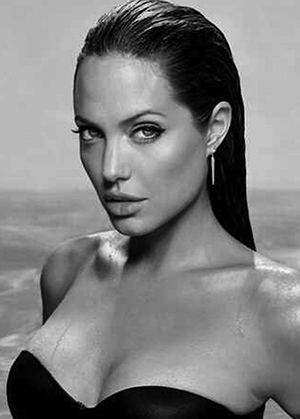
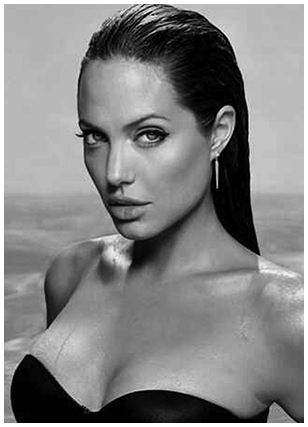
front changes

diff --git a/verstation2.js b/verstation2.js
@@ -1,0 +1,150 @@
+var datamass= null,
+customDataMass = null;
+var globalCurrentDirection = 'left',
+    globaCurrentPoint,
+    nextPoint = {},
+    resultStack = new Array(),
+    firstPoint = {},
+    resultFromPhoto1 = [];
+    globalWidth = null,
+    globalHeight = null;
+$(document).ready(function(){
+    //get beauty
+    $('.nav-btn.do-beauty').on('click', function(){
+        $('.get-beauty._flower').toggle();
+        $('.get-beauty._fly').toggleClass('_show');
+    });
+
+    // создаем или находим изображение
+    var img = $('.markup'),
+    globalWidth = $('.markup').width(),
+    globalHeight = $('.markup').height();
+    var markup = document.getElementById("markup");
+
+
+    $('.welcome__t').on("click", function(){
+        $('.pss-block').removeClass("hidden")
+    });
+
+
+
+    /*$('.button-generate input[type="file"]').change(function(event) {*/
+
+    $('.button-load input[type="file"]').change(function(event) {
+        // создаем или находим canvas
+        var canvas = document.getElementById('canvas');
+        // получаем его 2D контекст
+        var context = canvas.getContext('2d');
+        var img = new Image;
+        img.src = URL.createObjectURL(event.target.files[0]);
+        img.onload = function() {
+            canvas.onload = function() {
+                console.log('ok')
+            }
+            document.body.appendChild(canvas);
+            // помещаем изображение в контекст
+            context.drawImage(img, 0, 0);
+            // получаем объект, описывающий внутреннее состояние области контекста
+            var imageData = context.getImageData(0, 0, globalWidth, globalHeight);
+            var pixels = imageData.data;
+            datamass = pixels;
+            analizePixels(pixels);
+            /*      // фильтруем
+             imageDataFiltered = sepia(imageData);
+             // кладем результат фильтрации обратно в canvas
+             context.putImageData(imageDataFiltered, 0, 0);*/
+        }
+    });
+
+    $('.button-generate').on('click', function() {
+          // создаем или находим canvas
+          var canvas = document.getElementById('canvas');
+          // получаем его 2D контекст
+          var context = canvas.getContext('2d');
+          // помещаем изображение в контекст
+          context.drawImage(markup, 0, 0);
+          // получаем объект, описывающий внутреннее состояние области контекста
+          var imageData = context.getImageData(0, 0, globalWidth, globalHeight);
+          var pixels = imageData.data;
+          datamass = pixels;
+          analizePixels(pixels);
+        /*  // фильтруем
+          imageDataFiltered = sepia(imageData);
+          // кладем результат фильтрации обратно в canvas
+          context.putImageData(imageDataFiltered, 0, 0);*/
+     });
+});
+
+var analizePixels = function(canvasPixels){
+    var i = 0,
+    j = 0,
+    indexRow = 0,
+    indexCol = 0,
+    originalWidth = 0,
+    customWidth = 0,
+    width = $('.markup').width(),
+    height = $('.markup').height();
+    /*width = 0, height = 0;*/
+    globalHeight = height;
+    globalWidth = width;
+    pixMas = new Array(height);
+
+        for (var k = 0; k < pixMas.length; k++){ // create array
+            pixMas[k] = new Array (width);
+        }
+
+        originalWidth = width*4;
+
+        for (i=3; i < width*height*4; i+=4){
+
+            indexRow = parseInt(i/originalWidth);
+            indexCol = parseInt((i%originalWidth)/4);
+            /*if (canvasPixels[i]<200){
+                pixMas[indexRow][indexCol] = 0;
+            } else {*/
+                var colorSumm = changeToHSL(canvasPixels[i-3], canvasPixels[i-2], canvasPixels[i-1]);
+                if (colorSumm < 300 && canvasPixels[i]!=0){
+                    pixMas[indexRow][indexCol] = 1
+                    /*console.log(colorSumm);
+                    console.log("index = " + indexRow+ " "+ indexCol )
+                    console.log("params = " + canvasPixels[i-3] +" "+ canvasPixels[i-2]+" "+canvasPixels[i-1]+" "+canvasPixels[i])
+                */}else{
+                    pixMas[indexRow][indexCol] = 0
+                }
+
+            /*}*/
+
+        /*if (ins%4 == 0){
+            if (canvasPixels[i]<200){
+                canvasPixels[i] = 0; // empty element. it's not need in checking
+                var selectPixel = changeToHSL(canvasPixels[i-3], canvasPixels[i-2], canvasPixels[i-1]);
+            }
+        }*/
+
+        }
+    customDataMass = pixMas;
+    outPut();
+    $('.nav-btn').removeClass("hidden");
+    /*algorithmFindContur();*/
+}
+
+    var changeToHSL = function(r,g,b){
+        var color = tinycolor({r:r, g:g, b:b});
+        /*colorHsl = color.toHsl().l;*/
+        /*colorHsl = color.isDark();*/
+        colorHsl = r+b+g;
+        return colorHsl
+    };
+
+    var outPut = function(){
+        var htmlTemplate = "";
+        for (var i=0; i< customDataMass.length; i++){
+            htmlTemplate+=""
+            for (var j = 0; j < customDataMass[i].length; j++){
+                htmlTemplate+=" "+customDataMass[i][j];
+            }
+            htmlTemplate+="</br>";
+        }
+        $('.ouput-mass').html(htmlTemplate);
+    };
+

diff --git a/max/index.html b/max/index.html
@@ -25,7 +25,7 @@
                 <span class="welcome__t__row welcome__t__row_i2">to web-pages</span>
             </h1>
 
-            <label class="welcome__bt hvr-buzz button-generate">Try it <!-- <input type="file" id="files"/> --></label>
+            <label class="welcome__bt hvr-buzz button-generate">Сгенерируй меня полностью <!-- <input type="file" id="files"/> --></label>
             <label class=" button-load">Select file..<input type="file" id="files"/></label>
 
             <div class="pss-block hidden">
@@ -63,7 +63,7 @@
 		<img src="../shar3.png" class="get-beauty _fly _3"/>
 		<img src="../shar4.png" class="get-beauty _fly _4"/>
         <div class="nav-btn do-beauty hidden">Сделать красиво</div>
-        <a class="nav-btn exeperement hidden" href="../getstar.html">Experemental</a>
+        <a class="nav-btn exeperement hidden" target="_blank" href="../getstar.html">Experemental</a>
         <script src="js/interact-1.2.4.min.js"></script>
         <script src="js/main.js"></script>
     </body>

diff --git a/getstar.html b/getstar.html
@@ -2,7 +2,8 @@
 <html>
 <head>
 	<script type="text/javascript" src="jquery.js"></script>
-	<script type="text/javascript" src="verstation.js"></script>
+	<script type="text/javascript" src="verstation2.js"></script>
+
 	<script type='text/javascript' src='tinycolor.js'></script>
 	<link rel="stylesheet" href="verstation.css"/>
 	<meta http-equiv="content-type" content="text/html; charset=utf-8" />
@@ -29,7 +30,7 @@
 		.nose {position: absolute;top: 25px;height: 20px;width: 10px;left: 45%;border: 3px solid #be935a;border-top: 0;border-left: 0;border-radius: 0 0 5px 0;-webkit-transform: rotate(-20deg);-ms-transform: rotate(-20deg);transform: rotate(-20deg);}
 		.mouth{  position: absolute;bottom: 12px;left: 29px;right: 0;margin: 0 auto;}
 		.boobs{  position: absolute;top: 123px;width: 170px;left: -23px;}
-		.ouput-mass{float: none; top: 0;}
+		.ouput-mass{float: none;  top: 55px;  left: 45px;  right: 0; color: #000; font-size: 1px;}
 	</style>
 
 	<title>Verstation</title>

diff --git a/verstation.css b/verstation.css
@@ -13,7 +13,7 @@ img.pss-img {
     -webkit-transition: all 0.1s;    transition: all 0.1s;
     height: 335px;
     position: absolute;
-    bottom: 0px;
+    bottom: -40px;
     /* display: none; */
     left: -52px;
 }

diff --git a/max/css/main.css b/max/css/main.css
@@ -95,7 +95,7 @@ input[type="file"] {
 }
 .welcome__bt {
     background: #e80000;
-    width: 250px;
+    width: 420px;
     display: block;
     height: 65px;
     line-height: 65px;
